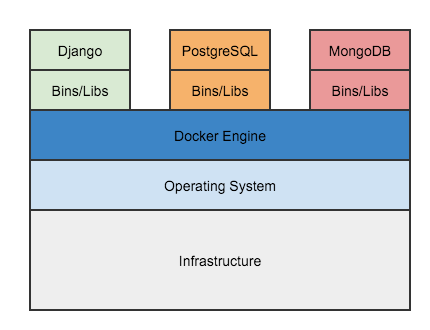
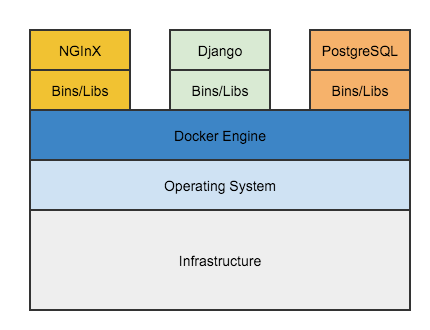
updated documentation to include model and more text

Changed region(s): [[0.7256, 0.0909, 0.9674, 0.3333], [0.393, 0.0909, 0.6349, 0.3333], [0.0605, 0.0909, 0.3023, 0.3333]]

diff --git a/documentation/docs/extra.css b/documentation/docs/extra.css
@@ -2,3 +2,10 @@ table {
 	table-layout: fixed;
 	width: 100%;
 }
+
+img[alt="research"] { 
+    float:right; 
+    margin:0 -2px; 
+    padding:1px; 
+    border:0px;
+}

diff --git a/documentation/docs/background.md b/documentation/docs/background.md
@@ -1,9 +1,8 @@
 
 # Background
 
-Apple launched its ResearchKit framework for iOS on March 9, 2015. ResearchKit is an open source software framework designed to aid in the creation of mobile apps for biomedical and health research. ResearchKit simplifies construction of highly functional apps. Support is provided for various app modules, including informed consent, passive data collection, active tasks, surveys and data dashboards. 
-Apple iOS currently controls a little over 43% of the US smartphone market, providing access to more than 79 million iPhone users in the US. The ResearchKit platform immediately garnered a great deal of interest within the biomedical research community.   
- 
+Apple launched its ResearchKit framework for iOS on March 9, 2015. ResearchKit is an open source software framework designed to aid in the creation of mobile apps for biomedical and health research. ResearchKit simplifies construction of highly functional apps. Support is provided for various app modules, including informed consent, passive data collection, active tasks, surveys and data dashboards. Apple iOS currently controls a little over 43% of the US smartphone market, providing access to more than 79 million iPhone users in the US. The ResearchKit platform immediately garnered a great deal of interest within the biomedical research community.
+
 Five apps developed with ResearchKit were also released at the debut press event. In March Stanford University researchers found that 11,000 people had signed up for a cardiovascular study using Apple Inc.’s ResearchKit, less than 24 hours after the iPhone tool was introduced. The Michael J. Fox Foundation for Parkinson’s Research collaborated with nonprofit group Sage Bionetworks to develop The Parkinson’s app, which had 5,589 consenting users with 24 hours of launch. These early results suggest a healthy future for biomedical research using data gathered from mobile apps, and for the ResearchKit framework. RCD has already developed a very simple ResearchKit app, but currently has no backend data service to securely receive and manage the data collected. Exhibit 1 is a screenshot of this example app. With our rich capabilities in health research, research data management, statistical analysis, and data sciences, we need to explore the potential of ResearchKit for our business. 
 
 Deployed ResearchKit apps generate a great deal of data, presenting operational challenges for researchers.  Given the nature of the data, privacy and security concerns must be addressed with care. The ResearchKit framework provides no specific capabilities for dealing with these data, relying on built-in iOS functions. Apple offers no recommendations or backend service for storing, securing, managing and analyzing the data collected using ResearchKit apps. Researchers seeking to leverage this technology may not be able to easily develop deployable solutions without resolving significant technical challenges. 
@@ -29,7 +28,7 @@ Examples of RTI projects that could use the new capabilities developed by this I
 
 ---
 
-# Research Objectives
+### Research Objectives
 
 1. Develop the internal capability to design and develop ResearchKit framework apps, and to securely collect the data in an RTI-managed backend data service.
 
@@ -45,13 +44,13 @@ Examples of RTI projects that could use the new capabilities developed by this I
 
 ---
 
-# Statement of Work
+### Statement of Work
 
 Each iteration being set based on the full objectives as well as the results of the previous iterations and related stakeholder feedback. 
 
 The basic progression of tasks toward goals is listed here.  Note that these activities will be interleaved and concurrent, rather than consecutive.
 
-## Milestones
+### Milestones
 
 | October - January | Planned Activities | Notes/Comments      
 ----------- | ----------- | -----------
@@ -81,11 +80,11 @@ Task 14: Demo/Pilot of dashboard UI | Complete a demo/pilot of dashboard app usi
 
 ---
 
-# Budget Summary
+### Budget Summary
 
 Research and development hours to support the activities listed above.   
 
-### The basic skill categories
+#### The basic skill categories
 
 * System analysis and design
 * iOS development and publishing
@@ -93,13 +92,13 @@ Research and development hours to support the activities listed above.
 * Dashboard UI design and development
 * Project coordination
 
-### Labor assignments
+#### Labor assignments
 
 * Adam Preston, iOS prototype development, cloud services and coordination, 160 hours
 * Chris Siege, Data visualization, 60 hours
 * Ron Thigpen, Cloud services, analysis and coordination 100 hours
 
-### Other Direct Costs (ODCs)
+#### Other Direct Costs (ODCs)
 
 * Cloud hosting services, $100 / mo X 9 mos
 * SSL security certificate, $50 ea X 1
@@ -109,7 +108,7 @@ Research and development hours to support the activities listed above.
 
 ---
 
-# Expected Results
+### Expected Results
 1. A working pilot data service integrating with ResearchKit apps
 2. An available iOS component library for interaction with our data service
 3. A demonstrable app built using the ResearchKit framework, our iOS library, and our data service
@@ -119,6 +118,6 @@ Research and development hours to support the activities listed above.
 
 ---
 
-# Supporting Comments (from management)
+### Supporting Comments (from management)
 
 Apple Inc.’s ResearchKit is a new platform for advanced medical research using Apple’s leading edge mobile devices. This platform provides access to more than 40% of smartphone users in the US. Apple’s market share in other developed countries is similar. We should take advantage of this opportunity and add this capability to our existing set of research tools.

diff --git a/documentation/docs/index.md b/documentation/docs/index.md
@@ -1,20 +1,12 @@
 
-## Introduction
-
-Put brief introductory paragraph here.
-
-
-## Architecture
-
 ## Overview
 
-The Researchnet service is composed to two things: one, a web application provides which an application programming interface (API), a management console, and a relational database.  The application flow begins with an authentication and when successful results in a session token which is used by the client for all subsequent requests. The database is a relational database used for storing users and groups as well storing the survey reponses.
+![research](images/research.png )
+Apple launched its ResearchKit framework for iOS on March 9, 2015. This open source software framework was designed to aid in the creation of mobile apps for biomedical and health research. ResearchKit simplifies construction of highly functional apps by providing support for various app modules, including informed consent, passive data collection, active tasks, surveys and data dashboards. 
 
-![Screenshot](images/flow.png)
+Apple iOS currently controls a little over 43% of the US smartphone market, providing access to more than 79 million iPhone users in the US. The ResearchKit platform immediately garnered a great deal of interest within the biomedical research community.   
+ 
+As exciting as this new framework is Apple provided no guidance on how the data collected was to be stored and managed.  This is where the Biomedical Data as a Service Internal Research and Development (IR&D) project comes in.  Designed and implmented by the Research Computing Division, this solution includes the following basic components: an iOS code library, a cloud-based data host, a service layer implementing data exchange application programming interfaces, and a dashboard UI for management.  Instrument developers simply include the iOS library in their IOS application code to connect to the data service via the REST based web API.  Study managers manage their datasets and perform exploratory analytics via the dashboard UI. The system design and implementation incorporates US legal and regulatory compliance with respect to data privacy and security. 
 
-
-## Deployment
-
-Currently we certify a HIPPA compliant configuration with using Docker containers and support the following cloud service providers: Amazon Web Services (AWS), Digital Ocean, Microsoft Azure, and IBM Softlayer.
 
 

diff --git a/documentation/docs/specifications.md b/documentation/docs/specifications.md
@@ -1,5 +1,29 @@
+
+
+
+## Application Architecture
+
+In summary, the Researchnet backend application has been implemented in Pythion Django and utilizes Django User Authentication and Django Rest Framework (DRF) as core components with many of the popular JavaScript libraries on the front end including D3.js and foundation.js.     However, the main purpose of this backend is to provide a REST API.  More detail on the API can be found on the documentation site.  
+
+
+![flow](images/flow.png )
+
+
 ## Deployment Architecture
 
-Containers include the application and all of its dependencies, but share the kernel with other containers. They run as an isolated process in userspace on the host operating system. They’re also not tied to any specific infrastructure – Docker containers run on any computer, on any infrastructure and in any cloud.  In our case here we maintain 3 linked containers, one for the web application and API with Python Django, one for the user database with Postgres SQL, and finally one for the survey response database with MongoDB.
+Containers include the application and all of its dependencies, but share the kernel with other containers. They run as an isolated process in userspace on the host operating system. They’re also not tied to any specific infrastructure – Docker containers run on any computer, on any infrastructure and in any cloud.  In our case here we maintain 2 linked containers, one for the web application and API with Python Django, one for the user database with Postgres SQL.
 
-![Screenshot](images/docker.png)
+![docker](images/docker.png )
+
+## Data Model
+
+Researchnet extends the Django User Model to support an entity called the 'Participant' which serves as the study participant.  See the [data model diagram](images/models.png) for more information.
+
+
+
+## Deployment
+
+Currently we certify a HIPPA compliant configuration with using Docker containers and support the following cloud service providers: Amazon Web Services (AWS), Digital Ocean, Microsoft Azure, and IBM Softlayer.
+
+
+
